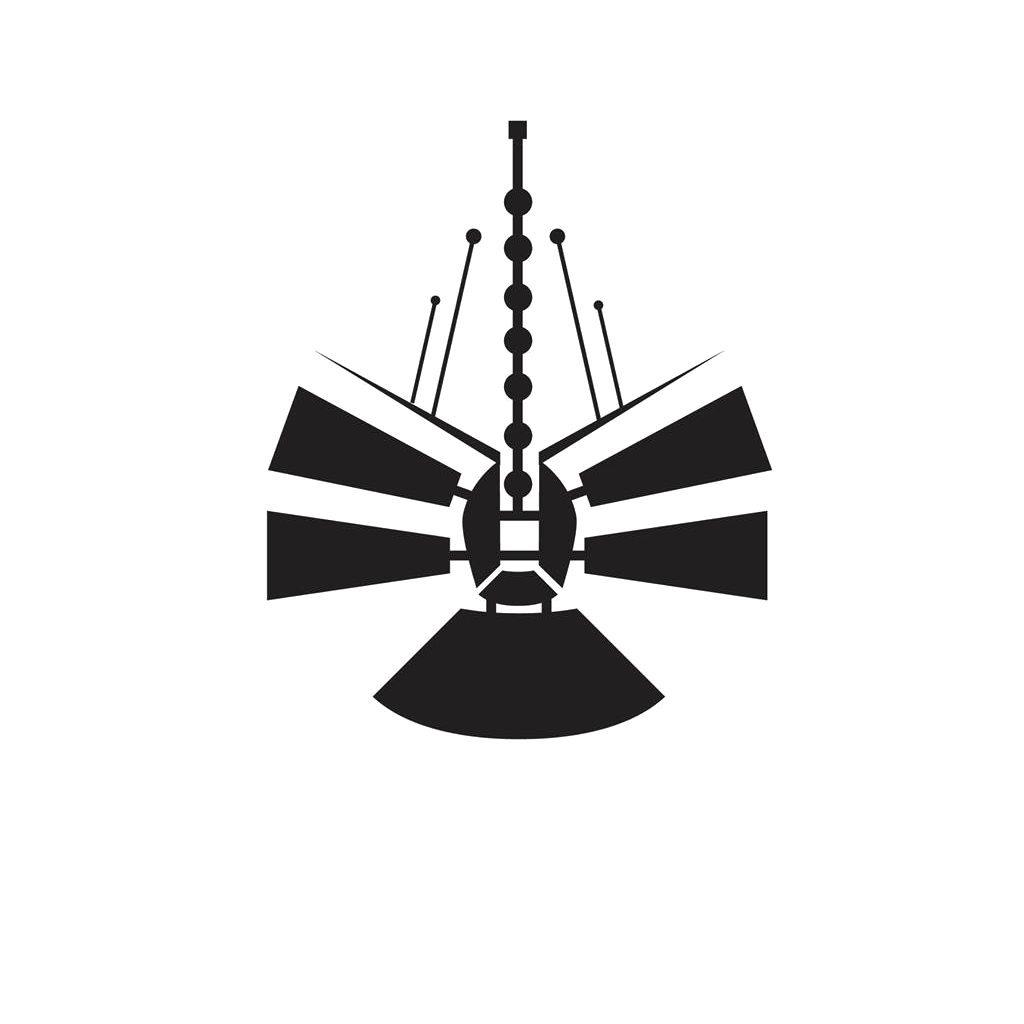
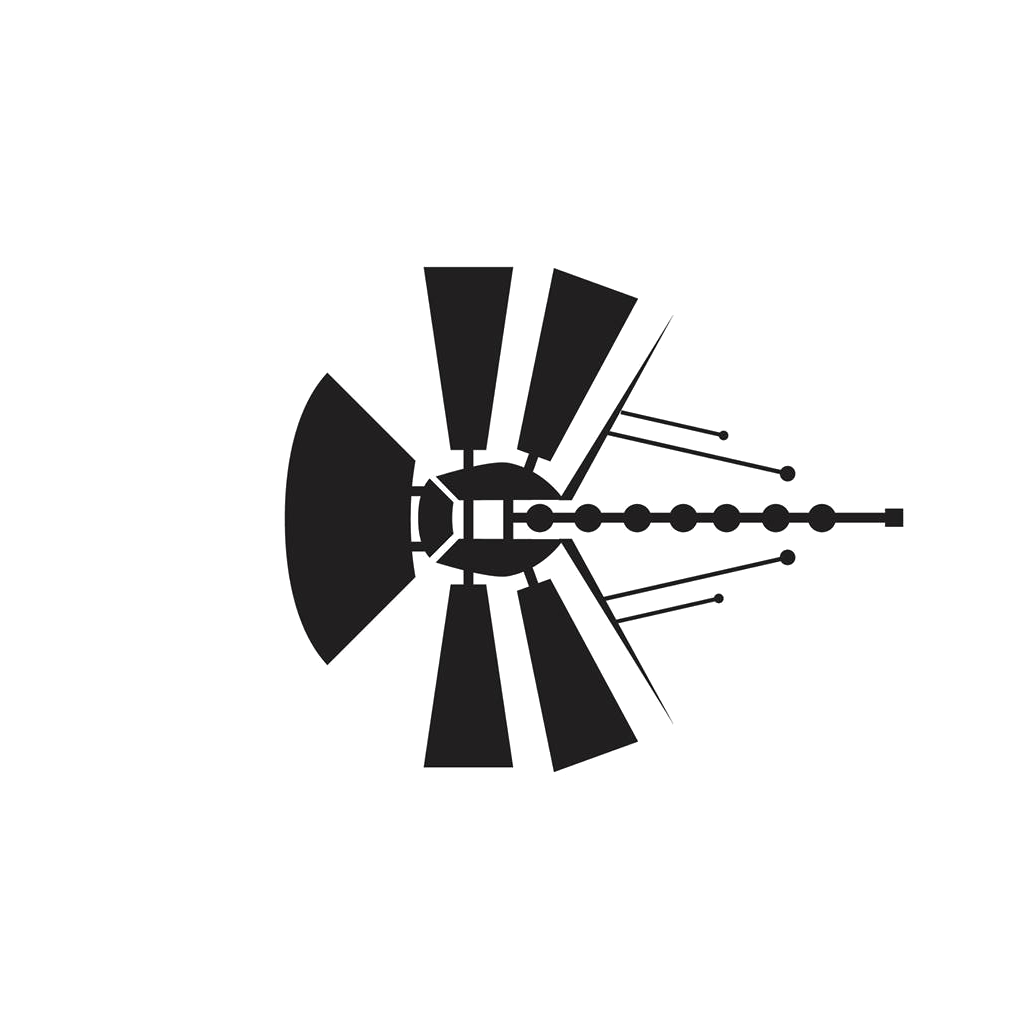
cannon angling fixed
still need to make the rotation uniform; consider replacing lerp for not
lerp

Changed region(s): [[0.25, 0.0938, 0.9062, 0.75]]

diff --git a/eir/src/eir/world/unit/weapon/IWeapon.java b/eir/src/eir/world/unit/weapon/IWeapon.java
@@ -3,8 +3,6 @@
  */
 package eir.world.unit.weapon;
 
-import yarangi.math.Vector2D;
-
 import com.badlogic.gdx.graphics.g2d.Animation;
 import com.badlogic.gdx.graphics.g2d.Sprite;
 import com.badlogic.gdx.math.Vector2;
@@ -32,7 +30,7 @@ public abstract class IWeapon
 	// state
 	protected Vector2 weaponDir;
 
-	protected float angle;
+//	protected float angle;
 
 	protected float timeToReload;
 	protected int bulletsInMagazine;
@@ -56,10 +54,10 @@ public abstract class IWeapon
 
 		this.owner = owner;
 
-		weaponDir = new Vector2(0,1);
+		weaponDir = new Vector2(1,0);
 
-		this.angle = owner.getAngle();
-		weaponDir.setAngle( angle );
+//		this.angle = owner.getAngle();
+		weaponDir.setAngle( owner.getAngle() );
 
 		targetOrientation = weaponDir.cpy();
 
@@ -75,7 +73,7 @@ public abstract class IWeapon
 		Vector2 firingDir = direction;//Vector2.tmp.set( target.getArea().getAnchor() ).sub( weaponPos ).nor();
 
 		targetOrientation.set( direction );
-		Bullet bullet = createBullet( target, weaponPos, firingDir, owner.getFaction().getLevel().getUnitsFactory() );
+		Bullet bullet = createBullet( target, weaponPos, weaponDir, owner.getFaction().getLevel().getUnitsFactory() );
 		if(bullet != null)
 		{
 			owner.getFaction().getLevel().addUnit( bullet );
@@ -135,20 +133,15 @@ public abstract class IWeapon
 	{
 		timeToReload -= delta;
 
-		// angle delta
-		float da = delta * getAngularSpeed();
-
-		float targetAngle = targetOrientation.angle();
+		weaponDir.lerp( targetOrientation, delta * getAngularSpeed() );
+		weaponDir.nor();
 
 		float diffAngle =
-				(float)Math.acos( targetOrientation.dot( weaponDir ) /
-				(
-						targetOrientation.len() * weaponDir.len()
-				) );
+				(float) Math.acos( targetOrientation.dot( weaponDir ) /
+						( targetOrientation.len() * weaponDir.len()	) );
 
 //		float absDistance = Math.abs( angle - targetOrientation.angle() );
-		float absDistance = Math.abs( diffAngle );
-
+		float absDistance = (float) (Math.abs( diffAngle ) * Math.PI * 2f);
 		if( absDistance < getMaxFireAngle())
 		{
 			isOriented = true;
@@ -156,29 +149,6 @@ public abstract class IWeapon
 		{
 			isOriented = false;
 		}
-
-		if( absDistance < da ) // arrived
-		{
-			angle = targetAngle;
-		}
-		else
-		{
-			if(Vector2D.crossZComponent(
-					weaponDir.x, weaponDir.y,
-					targetOrientation.x, targetOrientation.y )
-				> 0)
-			{
-				angle -= da;
-				angle = angle % 360;
-			}
-			else
-			{
-				angle += da;
-				angle = angle % 360;
-			}
-		}
-
-		weaponDir.setAngle( angle );
 
 	}
 
@@ -204,7 +174,7 @@ public abstract class IWeapon
 	/**
 	 * @return the accuracy
 	 */
-	public abstract float getAccuracy();
+	public abstract float getDispersion();
 
 
 	public abstract float getBulletLifeDuration();
@@ -257,7 +227,7 @@ public abstract class IWeapon
 
 	public float getTimeToReload() { return timeToReload; }
 
-	public float getAngle() { return angle; }
+//	public float getAngle() { return angle; }
 
 
 }

diff --git a/eir/src/eir/world/unit/weapon/Minigun.java b/eir/src/eir/world/unit/weapon/Minigun.java
@@ -46,7 +46,7 @@ public class Minigun extends IWeapon
 
 		bulletBehavior = new MassDriverBehavior();
 
-		bulletDamage = new Damage(1,0,0,0);
+		bulletDamage = new Damage(5,0,0,0);
 	}
 
 
@@ -55,16 +55,16 @@ public class Minigun extends IWeapon
 
 
 	@Override
-	public int getBurstSize() { return 3; }
+	public int getBurstSize() { return 7; }
 
 	@Override
-	public float getMagazineReloadTime() { return 0.05f; }
+	public float getMagazineReloadTime() { return 1f; }
 
 	@Override
-	public float getReloadingTime() { return 0.05f; }
+	public float getReloadingTime() { return 0.01f; }
 
 	@Override
-	public float getAccuracy() { return 0.5f; }
+	public float getDispersion() { return 0.1f; }
 
 	@Override
 	public IBulletBehavior getBulletBehavior() { return bulletBehavior; }
@@ -82,7 +82,7 @@ public class Minigun extends IWeapon
 	@Override
 	protected float createAngle( final Vector2 firingDir )
 	{
-		return RandomUtil.STD( firingDir.angle(), getAccuracy());
+		return RandomUtil.STD( firingDir.angle(), getDispersion());
 	}
 
 
@@ -100,7 +100,7 @@ public class Minigun extends IWeapon
 	@Override
 	public float getBulletLifeDuration()
 	{
-		return 2;
+		return 1;
 	}
 
 
@@ -110,7 +110,7 @@ public class Minigun extends IWeapon
 		return bulletDamage;
 	}
 	@Override
-	public float getAngularSpeed() { return 1f; }
+	public float getAngularSpeed() { return 5f; }
 
 
 	@Override

diff --git a/eir/src/eir/world/unit/ant/Ant.java b/eir/src/eir/world/unit/ant/Ant.java
@@ -9,7 +9,6 @@ import com.badlogic.gdx.graphics.g2d.SpriteBatch;
 import com.badlogic.gdx.graphics.g2d.TextureRegion;
 import com.badlogic.gdx.math.Vector2;
 
-import eir.debug.Debug;
 import eir.resources.GameFactory;
 import eir.world.Effect;
 import eir.world.IRenderer;
@@ -47,7 +46,7 @@ public class Ant extends TaskedUnit implements IDamager
 	private float screamTime;
 	float nodeOffset;
 
-	SurfaceNavNode nextNode, targetNode;
+	SurfaceNavNode nextNode;
 
 	Damage damage = new Damage(1, 1, 1, 1);
 
@@ -76,6 +75,8 @@ public class Ant extends TaskedUnit implements IDamager
 	{
 		super.update( delta );
 
+		this.target = getTask() == null ? null : getTask().getOrder().getTarget();
+
 		stateTime += delta;
 	}
 
@@ -92,18 +93,7 @@ public class Ant extends TaskedUnit implements IDamager
 				size/region.getRegionWidth(),
 				size/region.getRegionWidth(), getAngle());
 
-		// TODO: remove debug rendering
-		if(Debug.debug.drawNavMesh)
-		{
-			if(stateTime - screamTime < 1)
-			{
-				Debug.FONT.draw( batch, "Yarr!", position.x, position.y );
-			}
-			if(targetNode != null)
-			{
-				Debug.FONT.draw( batch, String.valueOf( targetNode.getIndex() ), position.x+2, position.y-2 );
-			}
-		}
+
 	}
 
 	/**

diff --git a/eir/src/eir/world/unit/cannons/Cannon.java b/eir/src/eir/world/unit/cannons/Cannon.java
@@ -46,11 +46,10 @@ public class Cannon extends TaskedUnit implements IDamager, TargetProvider
 	public void postinit( final Level level )
 	{
 		this.targetingModule = TargetingModule.RANDOM_TARGETER( this );
+		this.targetingModule = TargetingModule.CLOSEST_TARGETER( this );
 
 		this.sensor = level.getEnvironment().createSensor( this, SENSOR_RADIUS );
 
-//		this.weapon = new HomingLauncher( this );
-		this.weapon = new Minigun( this );
 		this.hull = new Hull(500f, 0f, new float [] {0f,0f,0f,0f});
 
 		int navIdx = this.getAnchorNode().getDescriptor().getIndex();
@@ -63,6 +62,9 @@ public class Cannon extends TaskedUnit implements IDamager, TargetProvider
 
 
 		this.angle = surface.rotate( 90 ).angle();
+
+//		this.weapon = new HomingLauncher( this );
+		this.weapon = new Minigun( this );
 	}
 
 	@Override
@@ -79,8 +81,9 @@ public class Cannon extends TaskedUnit implements IDamager, TargetProvider
 
 		super.update( delta );
 
-		this.angle = weapon.getAngle();
+		this.angle = weapon.getDirection().angle();
 	}
+
 	private static Sprite sprite = GameFactory.createSprite( "anima//cannons//cannon_hybrid_01.png" );
 
 	@Override

diff --git a/eir/src/eir/world/unit/overlays/IntegrityOverlay.java b/eir/src/eir/world/unit/overlays/IntegrityOverlay.java
@@ -4,7 +4,6 @@ import com.badlogic.gdx.graphics.g2d.SpriteBatch;
 import com.badlogic.gdx.graphics.glutils.ShapeRenderer;
 import com.badlogic.gdx.graphics.glutils.ShapeRenderer.ShapeType;
 
-import eir.debug.Debug;
 import eir.world.IRenderer;
 import eir.world.environment.spatial.AABB;
 import eir.world.unit.Hull;
@@ -32,10 +31,8 @@ public class IntegrityOverlay <U extends IUnit> implements IOverlay <U>
 	{
 		Hull hull = unit.getHull();
 		if(hull == null)
-		{
-			Debug.log( "Unit has no hull: " + unit );
+			//			Debug.log( "Unit has no hull: " + unit );
 			return;
-		}
 
 		float maxHP = hull.getMaxHitPoints();
 		float currHP = hull.getHitPoints();

diff --git a/eir/src/eir/world/unit/weapon/HomingLauncher.java b/eir/src/eir/world/unit/weapon/HomingLauncher.java
@@ -67,7 +67,7 @@ public class HomingLauncher extends IWeapon
 	public float getReloadingTime() { return 0.15f; }
 
 	@Override
-	public float getAccuracy() { return 15; }
+	public float getDispersion() { return 15; }
 
 	@Override
 	public IBulletBehavior getBulletBehavior() { return bulletBehavior; }
@@ -95,7 +95,7 @@ public class HomingLauncher extends IWeapon
 
 		float burstAngle = burstChirality * 90 + burstChirality * ( 15 + RandomUtil.STD( 0, 5 ) );
 
-		return RandomUtil.STD( burstAngle + this.getOwner().getAngle(), getAccuracy());
+		return RandomUtil.STD( burstAngle + this.getOwner().getAngle(), getDispersion());
 	}
 
 	@Override

diff --git a/eir/src/eir/world/unit/weapon/HomingBehavior.java b/eir/src/eir/world/unit/weapon/HomingBehavior.java
@@ -67,7 +67,7 @@ public class HomingBehavior implements IBulletBehavior
 							.mul( 1000 * bullet.getLifetime() * bullet.getLifetime() * delta );
 		if(bullet.getLifetime() < 0.4)
 		{
-			bullet.getVelocity().mul( 0.95f );
+			bullet.getVelocity().mul( 0.95f  );
 		}
 		else
 		{

diff --git a/eir/src/eir/world/unit/TaskedUnit.java b/eir/src/eir/world/unit/TaskedUnit.java
@@ -40,6 +40,8 @@ public abstract class TaskedUnit extends Unit
 
 	}
 
+	protected Task getTask() { return task; }
+
 	@Override
 	public float hit(final Damage source, final IDamager damager, final float damageCoef)
 	{
